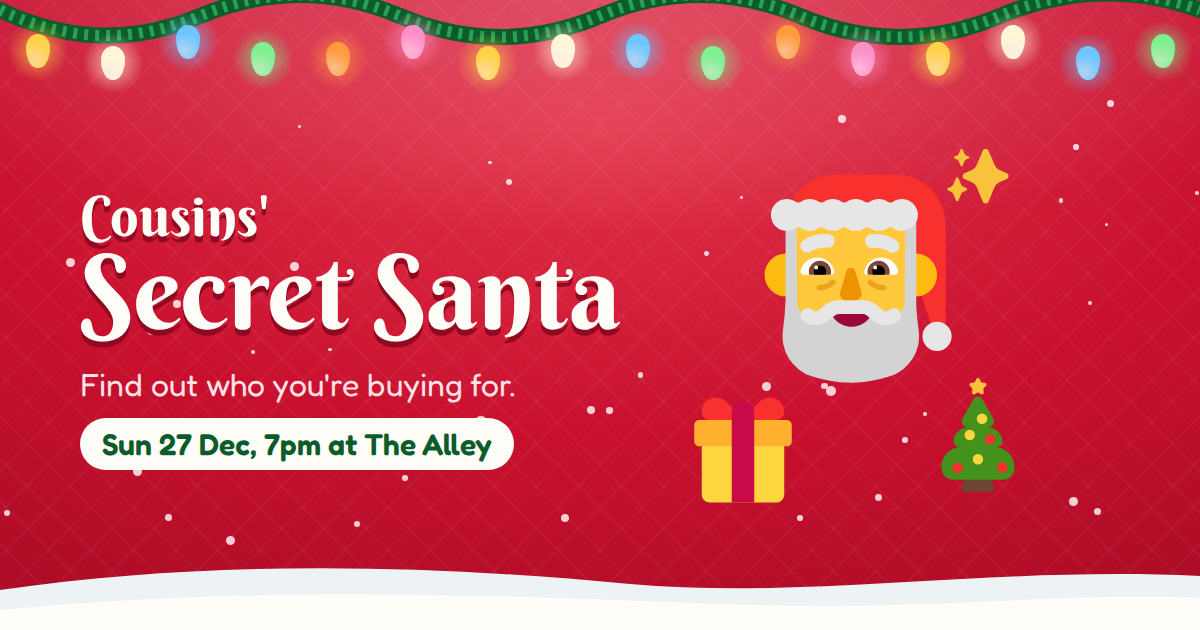
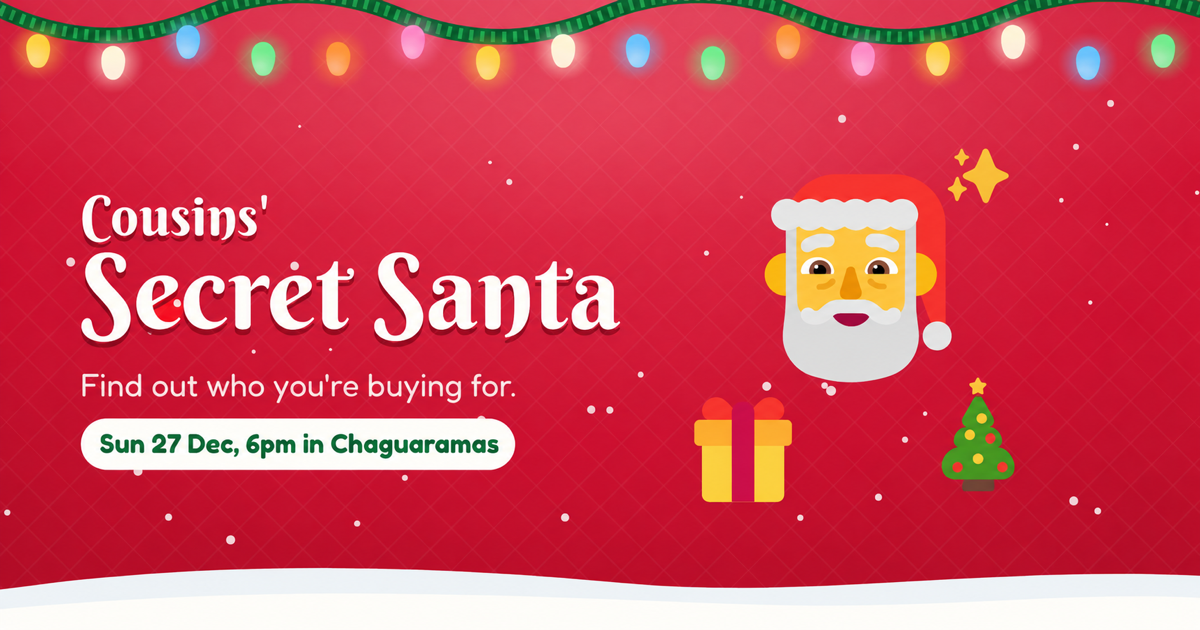
fix: refresh WhatsApp event preview

diff --git a/index.html b/index.html
@@ -5,17 +5,25 @@
     <meta name="viewport" content="width=device-width, initial-scale=1, viewport-fit=cover" />
     <meta name="theme-color" content="#c8102e" />
     <title>Cousins' Secret Santa 2026</title>
-    <meta name="description" content="Pick your name, tap in your PIN and find out who you're buying for. Sunday 27 December, 7pm at The Alley." />
+    <meta name="description" content="Pick your name, tap in your PIN and find out who you're buying for. Sunday 27 December at 6pm, with mini golf at Skallywag Bay and dinner at Sails Restaurant &amp; Pub in Chaguaramas." />
     <link rel="icon" href="./favicon.svg" type="image/svg+xml" />
 
     <!-- Link previews (WhatsApp etc.). VITE_SITE_URL is set by the GitHub Pages workflow. -->
     <meta property="og:type" content="website" />
+    <meta property="og:locale" content="en_TT" />
+    <meta property="og:url" content="%VITE_SITE_URL%/" />
     <meta property="og:title" content="Cousins' Secret Santa 2026" />
-    <meta property="og:description" content="Find out who you're buying for. Sunday 27 December, 7pm at The Alley." />
-    <meta property="og:image" content="%VITE_SITE_URL%/og-image.png" />
+    <meta property="og:description" content="Find out who you're buying for. Sunday 27 December at 6pm, with mini golf at Skallywag Bay and dinner at Sails Restaurant &amp; Pub in Chaguaramas." />
+    <meta property="og:image" content="%VITE_SITE_URL%/og-secret-santa-chaguaramas.png" />
+    <meta property="og:image:secure_url" content="%VITE_SITE_URL%/og-secret-santa-chaguaramas.png" />
+    <meta property="og:image:type" content="image/png" />
     <meta property="og:image:width" content="1200" />
     <meta property="og:image:height" content="630" />
+    <meta property="og:image:alt" content="Cousins' Secret Santa, Sunday 27 December at 6pm in Chaguaramas" />
     <meta name="twitter:card" content="summary_large_image" />
+    <meta name="twitter:title" content="Cousins' Secret Santa 2026" />
+    <meta name="twitter:description" content="Sunday 27 December at 6pm, with mini golf at Skallywag Bay and dinner at Sails Restaurant &amp; Pub in Chaguaramas." />
+    <meta name="twitter:image" content="%VITE_SITE_URL%/og-secret-santa-chaguaramas.png" />
   </head>
   <body>
     <div id="root"></div>

diff --git a/tests/social-meta.test.ts b/tests/social-meta.test.ts
@@ -1,0 +1,24 @@
+import { readFileSync } from "node:fs";
+import { resolve } from "node:path";
+import { describe, expect, it } from "vitest";
+
+const html = readFileSync(resolve(process.cwd(), "index.html"), "utf8");
+const image = readFileSync(resolve(process.cwd(), "public/og-secret-santa-chaguaramas.png"));
+const legacyImage = readFileSync(resolve(process.cwd(), "public/og-image.png"));
+
+describe("social preview metadata", () => {
+  it("describes the current Chaguaramas event and uses the versioned artwork", () => {
+    expect(html).toContain("Sunday 27 December at 6pm");
+    expect(html).toContain("Skallywag Bay");
+    expect(html).toContain("Sails Restaurant &amp; Pub");
+    expect(html).toContain("og-secret-santa-chaguaramas.png");
+    expect(html).not.toMatch(/The Alley|7pm/i);
+  });
+
+  it("ships a 1200 by 630 PNG at both the current and legacy image URLs", () => {
+    expect(image.subarray(1, 4).toString()).toBe("PNG");
+    expect(image.readUInt32BE(16)).toBe(1200);
+    expect(image.readUInt32BE(20)).toBe(630);
+    expect(legacyImage.equals(image)).toBe(true);
+  });
+});
